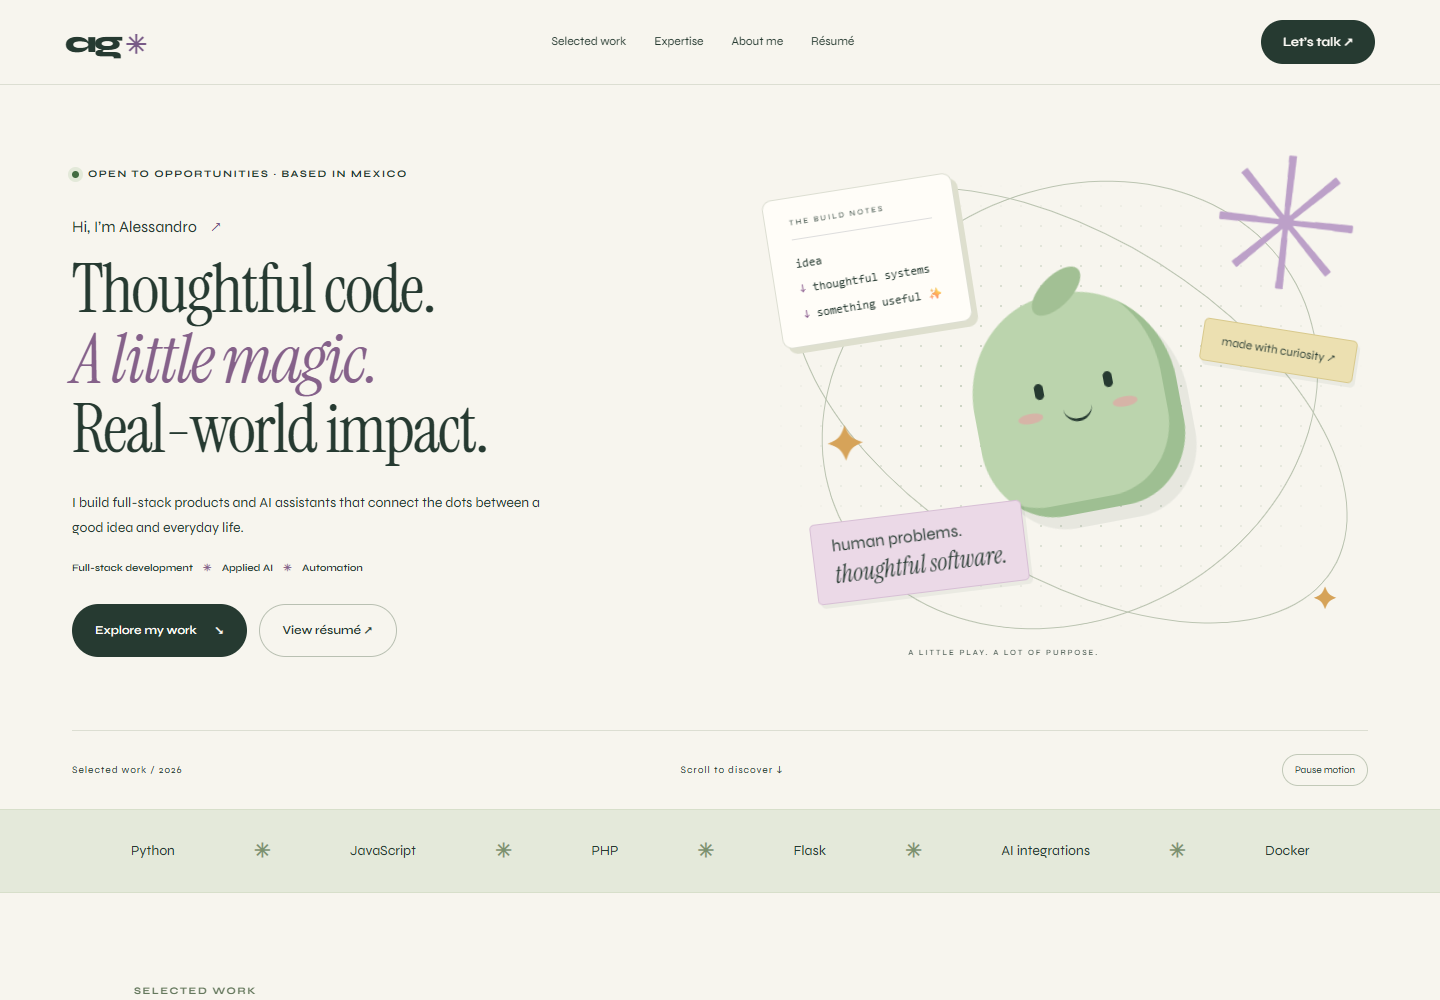
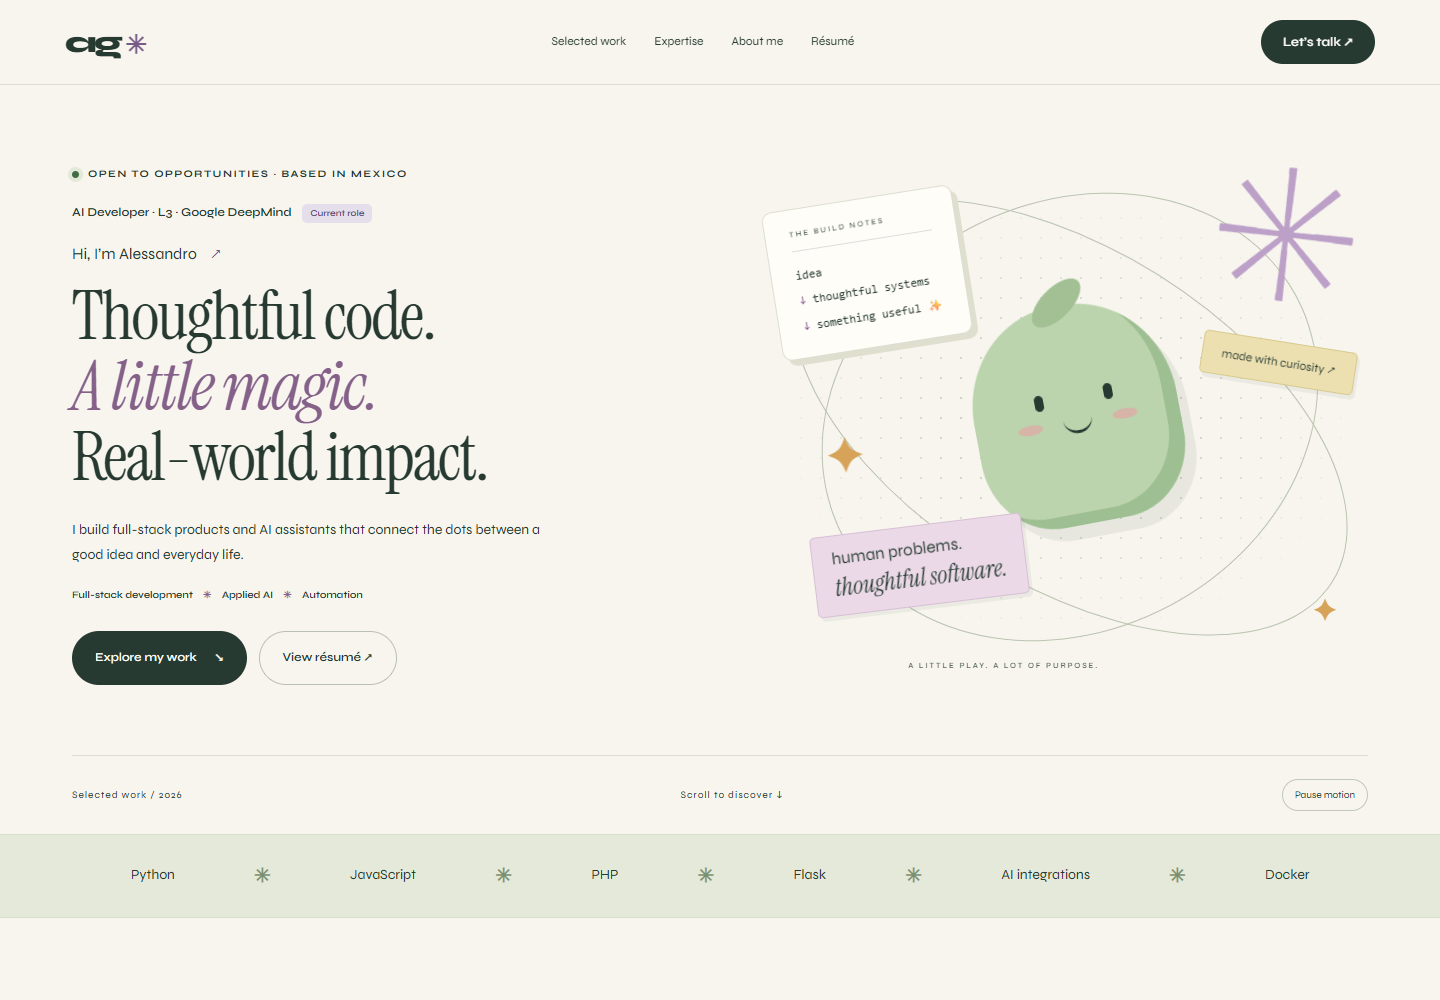
Highlight current Google DeepMind L3 AI developer role

diff --git a/resume.html b/resume.html
@@ -1,1 +1,1 @@
-<!DOCTYPE html><html lang="en"><head><meta charset="utf-8"><meta name="viewport" content="width=device-width,initial-scale=1"><meta name="description" content="Alessandro Gayttan — project-based professional profile in full-stack development and applied AI."><title>Résumé | Alessandro Gayttan</title><link rel="stylesheet" href="resume.css"></head><body><div class="resume-actions"><a href="index.html">← Portfolio</a><button id="print-resume" type="button">Print / Save as PDF</button></div><main><header><p class="kicker">PROJECT-BASED PROFESSIONAL PROFILE</p><h1>Alessandro Gayttan</h1><p class="headline">Full-Stack Developer · Applied AI · Automation</p><p>Mexico · English &amp; Spanish</p><p><a href="mailto:alessandrogayttan@gmail.com">alessandrogayttan@gmail.com</a> · <a href="https://github.com/alessandrogayttan">github.com/alessandrogayttan</a></p><p><a href="https://alessandrogayttan.github.io">alessandrogayttan.github.io</a></p></header><section><h2>Profile</h2><p>Software developer building business platforms and conversational AI integrations. Project experience spans frontend interfaces, PHP and Python backends, SQLite persistence, external APIs, and deployment. Connects product requirements with the systems that support day-to-day operations.</p></section><section><h2>Selected project experience</h2><article><h3>Inpulso 43 — Business platform</h3><p class="stack">PHP · JavaScript · SQLite · Stripe · Technical SEO</p><ul><li>Built a digital platform connecting marketing pages, workshop sales, a learning campus, and content administration.</li><li>Integrated payment and customer-support workflows across the public website and AI assistant.</li><li>Implemented structured metadata, responsive interfaces, and a modular content-management approach.</li></ul><p><a href="https://inpulso43.com">inpulso43.com</a> · <a href="https://alessandrogayttan.github.io/case-inpulso.html">Technical case study</a></p></article><article><h3>Alessia — Conversational AI assistant</h3><p class="stack">Python · Flask · Gemini · SQLite · Docker · WhatsApp API</p><ul><li>Built an assistant connecting WhatsApp and web chat with business tools for appointments, reminders, and human handoff.</li><li>Integrated Google Calendar and Sheets with a Flask API, conversation layer, and SQLite persistence.</li><li>Documented Docker/Gunicorn deployment and the scheduler constraint that requires separating jobs before scaling web workers.</li></ul><p><a href="https://github.com/alessandrogayttan/alessia-whatsapp">github.com/alessandrogayttan/alessia-whatsapp</a></p></article></section><section><h2>Technical skills</h2><p><strong>Languages:</strong> Python, PHP, JavaScript, HTML, CSS<br><strong>Backend &amp; data:</strong> Flask, SQLite, REST APIs, webhooks<br><strong>Integrations:</strong> Gemini, WhatsApp Business API, Google Calendar, Google Sheets, Stripe<br><strong>Delivery:</strong> Docker, Gunicorn, GitHub Pages, technical SEO</p></section></main><script src="resume.js"></script></body></html>
+<!DOCTYPE html><html lang="en"><head><meta charset="utf-8"><meta name="viewport" content="width=device-width,initial-scale=1"><meta name="description" content="Alessandro Gayttan — project-based professional profile in full-stack development and applied AI."><title>Résumé | Alessandro Gayttan</title><link rel="stylesheet" href="resume.css"></head><body><div class="resume-actions"><a href="index.html">← Portfolio</a><button id="print-resume" type="button">Print / Save as PDF</button></div><main><header><p class="kicker">PROFESSIONAL PROFILE</p><h1>Alessandro Gayttan</h1><p class="headline">AI Developer · L3 · Google DeepMind</p><p>Mexico · English &amp; Spanish</p><p><a href="mailto:alessandrogayttan@gmail.com">alessandrogayttan@gmail.com</a> · <a href="https://github.com/alessandrogayttan">github.com/alessandrogayttan</a></p><p><a href="https://alessandrogayttan.github.io">alessandrogayttan.github.io</a></p></header><section><h2>Profile</h2><p>Software developer building business platforms and conversational AI integrations. Project experience spans frontend interfaces, PHP and Python backends, SQLite persistence, external APIs, and deployment. Connects product requirements with the systems that support day-to-day operations.</p></section><section><h2>Current role</h2><p><strong>Google DeepMind — AI Developer, L3</strong> · Present</p></section><section><h2>Selected independent projects</h2><article><h3>Inpulso 43 — Business platform</h3><p class="stack">PHP · JavaScript · SQLite · Stripe · Technical SEO</p><ul><li>Built a digital platform connecting marketing pages, workshop sales, a learning campus, and content administration.</li><li>Integrated payment and customer-support workflows across the public website and AI assistant.</li><li>Implemented structured metadata, responsive interfaces, and a modular content-management approach.</li></ul><p><a href="https://inpulso43.com">inpulso43.com</a> · <a href="https://alessandrogayttan.github.io/case-inpulso.html">Technical case study</a></p></article><article><h3>Alessia — Conversational AI assistant</h3><p class="stack">Python · Flask · Gemini · SQLite · Docker · WhatsApp API</p><ul><li>Built an assistant connecting WhatsApp and web chat with business tools for appointments, reminders, and human handoff.</li><li>Integrated Google Calendar and Sheets with a Flask API, conversation layer, and SQLite persistence.</li><li>Documented Docker/Gunicorn deployment and the scheduler constraint that requires separating jobs before scaling web workers.</li></ul><p><a href="https://github.com/alessandrogayttan/alessia-whatsapp">github.com/alessandrogayttan/alessia-whatsapp</a></p></article></section><section><h2>Technical skills</h2><p><strong>Languages:</strong> Python, PHP, JavaScript, HTML, CSS<br><strong>Backend &amp; data:</strong> Flask, SQLite, REST APIs, webhooks<br><strong>Integrations:</strong> Gemini, WhatsApp Business API, Google Calendar, Google Sheets, Stripe<br><strong>Delivery:</strong> Docker, Gunicorn, GitHub Pages, technical SEO</p></section></main><script src="resume.js"></script></body></html>

diff --git a/studio.css b/studio.css
@@ -13,3 +13,5 @@ html.motion-paused *,html.motion-paused *::before,html.motion-paused *::after{an
 @media(max-width:1050px){.studio-hero{grid-template-columns:1.1fr 1fr;padding-top:130px;min-height:700px}.studio-hero h1{font-size:51px}.creative-canvas{min-height:450px;scale:.9}.code-note{left:-8%;font-size:10px}.mascot{left:25%;width:190px}.case-card{gap:28px}.case-card__visual{min-height:320px}.expertise-card{padding:22px}.about-teaser{margin-left:5vw;margin-right:5vw;gap:25px}.nav__links{gap:18px}.career-contact h2>span{right:6%;font-size:80px}}
 @media(max-width:768px){.nav{padding:14px 6vw}.nav__links{background:#f7f5ee}.nav__links a{font-size:14px;padding:14px}.nav__toggle{margin-left:auto}.studio-hero{display:flex;flex-direction:column;gap:10px;padding:115px 6vw 0;min-height:0}.hero-copy{padding:0}.studio-hero h1{font-size:clamp(45px,9vw,66px)}.availability{font-size:8px;letter-spacing:1px}.intro-name{margin-top:26px}.hero-description{font-size:13px}.role-line{font-size:9px;gap:8px}.creative-canvas{width:100%;max-width:470px;min-height:430px;scale:1;margin-top:25px}.code-note{left:4%;font-size:12px}.mascot{left:34%;top:28%;width:180px;height:200px}.mascot-eye{top:80px}.eye-left{left:50px}.eye-right{right:50px}.mascot-smile{left:77px;top:105px}.mascot-cheek{top:103px}.cheek-left{left:31px}.cheek-right{right:31px}.flower-one{font-size:150px;top:0}.sticker-top{right:1%;top:41%;font-size:10px}.sticker-bottom{bottom:12%;font-size:13px}.sticker-bottom strong{font-size:22px}.spark-one{font-size:38px}.hero-footnote{width:100%;margin-top:15px;font-size:8px;letter-spacing:0;gap:10px}.specialty-strip{gap:18px;font-size:12px;padding:20px}.specialty-strip b{font-size:14px}.specialty-strip b:nth-of-type(3){display:none}section{padding:60px 6vw}.section-head h2,.about-teaser h2{font-size:43px}.case-card{grid-template-columns:1fr;gap:25px;padding:26px 0}.case-card__visual{min-height:320px}.case-card h3{font-size:35px}.expertise-grid{grid-template-columns:1fr}.expertise-card{padding:28px}.expertise-symbol{float:right;height:auto;font-size:45px}.expertise-card h3{font-size:31px}.architecture-explorer{grid-template-columns:1fr}.architecture-buttons{display:grid;grid-template-columns:1fr 1fr;gap:5px;padding:10px}.architecture-buttons button{padding:13px 8px;font-size:9px;gap:7px}.architecture-buttons button span{font-size:11px}.architecture-detail{padding:28px;min-height:275px}.architecture-detail h3{font-size:32px}.about-teaser{grid-template-columns:1fr;gap:15px;margin:15px 6vw;padding:40px 5px}.about-flower{font-size:130px;text-align:left;height:135px}.career-contact{padding:32px 24px}.career-contact h2{font-size:45px}.career-contact h2>span{display:none}.contact-socials{gap:20px}.contact-socials>span{margin:0;width:100%}.footer{padding:25px 6vw}.about__intro{flex-direction:column}.about__skills{grid-template-columns:1fr}.case-page .case-study,.about{padding-top:110px}.case-study__hero h1{font-size:55px}.case-study__section{padding:0}.about__section{padding:0}.arch-box{min-width:85px}.case-study__cta{padding:28px}.screenshots-duo{grid-template-columns:1fr}.btn{padding:14px 19px}.hero-footnote a{display:none}}
 @media(prefers-reduced-motion:reduce){html{scroll-behavior:auto}.js-reveal .reveal{opacity:1;transform:none}*,*::before,*::after{animation:none!important;transition:none!important}.browser-frame,.case-card:nth-of-type(2) .browser-frame{transform:none}}
+
+.current-role{font-size:12px;font-weight:600;margin-top:20px;line-height:1.7}.current-role span{display:inline-block;margin-left:8px;padding:2px 8px;background:#e5dfeb;border-radius:5px;font-size:9px;color:#654b71}.current-role+.intro-name{margin-top:18px}@media(max-width:768px){.current-role{font-size:11px}}

diff --git a/resume.css b/resume.css
@@ -1,1 +1,1 @@
-*{box-sizing:border-box}body{margin:0;background:#f7f5ee;color:#242d29;font:15px/1.55 system-ui,sans-serif}main,.resume-actions{max-width:850px;margin:auto;padding:30px 48px}.resume-actions{display:flex;justify-content:space-between;align-items:center}button{padding:12px 20px;border:0;border-radius:24px;background:#253e34;color:white;cursor:pointer}main{background:white;margin-bottom:40px}h1{font-size:36px;letter-spacing:-1px;margin:8px 0}h2{font-size:16px;text-transform:uppercase;letter-spacing:1px;border-bottom:1px solid #ddd;padding-bottom:8px;margin-top:28px}h3{font-size:17px;margin-bottom:4px}p{margin:7px 0}.kicker,.stack{font-size:12px;color:#506258}.headline{font-size:18px}a{color:#315746;text-underline-offset:3px}li{margin-bottom:5px}article{break-inside:avoid}@media(max-width:600px){main,.resume-actions{padding:22px}h1{font-size:29px}}@page{size:A4;margin:14mm}@media print{body{background:white;font-size:10pt}.resume-actions{display:none}main{padding:0;margin:0;max-width:none}h1{font-size:26pt}h2{margin-top:16px}a{color:inherit;text-decoration:none}section{break-inside:avoid}}
+*{box-sizing:border-box}body{margin:0;background:#f7f5ee;color:#242d29;font:15px/1.55 system-ui,sans-serif}main,.resume-actions{max-width:850px;margin:auto;padding:30px 48px}.resume-actions{display:flex;justify-content:space-between;align-items:center}button{padding:12px 20px;border:0;border-radius:24px;background:#253e34;color:white;cursor:pointer}main{background:white;margin-bottom:40px}h1{font-size:36px;letter-spacing:-1px;margin:8px 0}h2{font-size:16px;text-transform:uppercase;letter-spacing:1px;border-bottom:1px solid #ddd;padding-bottom:8px;margin-top:28px}h3{font-size:17px;margin-bottom:4px}p{margin:7px 0}.kicker,.stack{font-size:12px;color:#506258}.headline{font-size:18px}a{color:#315746;text-underline-offset:3px}li{margin-bottom:5px}article{break-inside:avoid}@media(max-width:600px){main,.resume-actions{padding:22px}h1{font-size:29px}}@page{size:A4;margin:14mm}@media print{body{background:white;font-size:10pt}.resume-actions{display:none}main{padding:0;margin:0;max-width:none}h1{font-size:26pt}h2{margin-top:16px}a{color:inherit;text-decoration:none}section{break-inside:avoid}}@media print{body{font-size:9pt;line-height:1.4}h1{font-size:24pt}h2{margin-top:13px;padding-bottom:5px}h3{font-size:12pt}p{margin:5px 0}li{margin-bottom:4px}.headline{font-size:13pt}.stack,.kicker{font-size:8pt}}

diff --git a/index.html b/index.html
@@ -3,7 +3,7 @@
 <head>
   <meta charset="UTF-8">
   <meta name="viewport" content="width=device-width, initial-scale=1.0">
-  <meta name="description" content="Alessandro Gayttan — full-stack developer focused on applied AI and automation. Explore projects, technical case studies, and a printable professional profile.">
+  <meta name="description" content="Alessandro Gayttan — AI Developer L3 at Google DeepMind, focused on full-stack development, applied AI, and automation. Explore projects, technical case studies, and a printable professional profile.">
   <meta name="theme-color" content="#f7f5ee">
   <meta name="robots" content="index, follow">
   <link rel="canonical" href="https://alessandrogayttan.github.io/">
@@ -23,7 +23,8 @@
     "@context": "https://schema.org",
     "@type": "Person",
     "name": "Alessandro Gayttan",
-    "jobTitle": "Software Development Engineer",
+    "jobTitle": "AI Developer L3",
+    "worksFor": {"@type": "Organization", "name": "Google DeepMind"},
     "url": "https://alessandrogayttan.github.io",
     "email": "alessandrogayttan@gmail.com",
     "sameAs": ["https://github.com/alessandrogayttan"]
@@ -41,6 +42,7 @@
 <section class="studio-hero" id="top">
   <div class="hero-copy">
     <p class="availability"><span></span> OPEN TO OPPORTUNITIES · BASED IN MEXICO</p>
+    <p class="current-role">AI Developer · L3 · Google DeepMind <span>Current role</span></p>
     <p class="intro-name">Hi, I’m Alessandro <span aria-hidden="true">↗</span></p>
     <h1>Thoughtful code.<br><em>A little magic.</em><br>Real-world impact.</h1>
     <p class="hero-description">I build full-stack products and AI assistants that connect the dots between a good idea and everyday life.</p>

diff --git a/about.html b/about.html
@@ -33,13 +33,14 @@
           <p class="eyebrow">About me</p>
           <h1>Alessandro Gayttan</h1>
           <p class="about__tagline">I turn business problems into production-ready software — websites that convert, systems that scale, and AI that actually helps your team.</p>
-          <p class="hero__cv">Software Development Engineer · Full-Stack Development · Applied AI · Automation</p>
+          <p class="hero__cv">Currently: AI Developer · L3 · Google DeepMind</p>
         </div>
       </div>
     </header>
 
     <section class="about__section reveal">
       <h2>My story</h2>
+      <p>I currently work as an AI Developer, L3, at Google DeepMind. My portfolio below presents my separate software and automation projects.</p>
       <p>I'm a software development engineer focused on building real products for real businesses — not demos that never ship.</p>
       <p>My flagship project is <a href="case-inpulso.html">Inpulso 43</a>, a complete digital platform for a wellness center in Mexico: marketing site, virtual campus, workshop store, custom CMS, and integrated AI assistant. I also built <a href="case-alessia.html">Alessia</a>, an publicly available WhatsApp and web chat assistant with 25+ business tools running on DigitalOcean.</p>
       <p>Before coding, I think about the business outcome: Will this get more clients? Save reception hours? Make the brand look trustworthy? That mindset shapes every project I take.</p>

diff --git a/README.md b/README.md
@@ -24,7 +24,7 @@ The shared `studio.css` layer supplies a cream, mint, and lilac visual identity.
 
 Run `python -m http.server 8765 --bind 127.0.0.1` from this directory, then open `http://127.0.0.1:8765`.
 
-Use the résumé page's Print / Save as PDF button for a single-column, text-based professional profile. Its project-based format deliberately avoids inventing employers, education, or dates that have not been supplied.
+Use the résumé page's Print / Save as PDF button for a single-column, text-based professional profile. The current Google DeepMind AI Developer L3 role was supplied by Alessandro. Start dates, responsibilities, education, and impact metrics have not been added without his input.
 
 ## Validation of this revision
 
